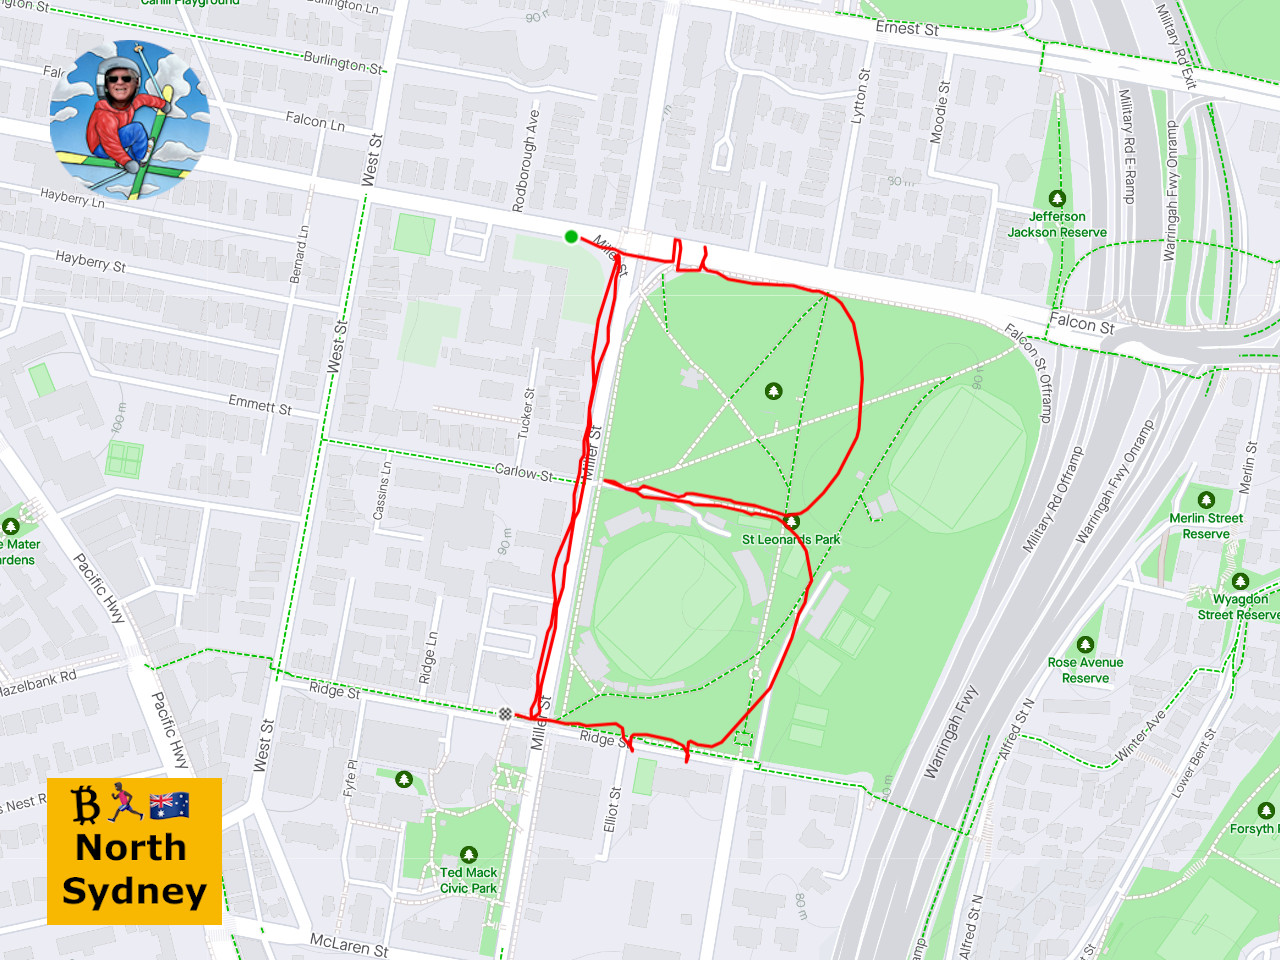
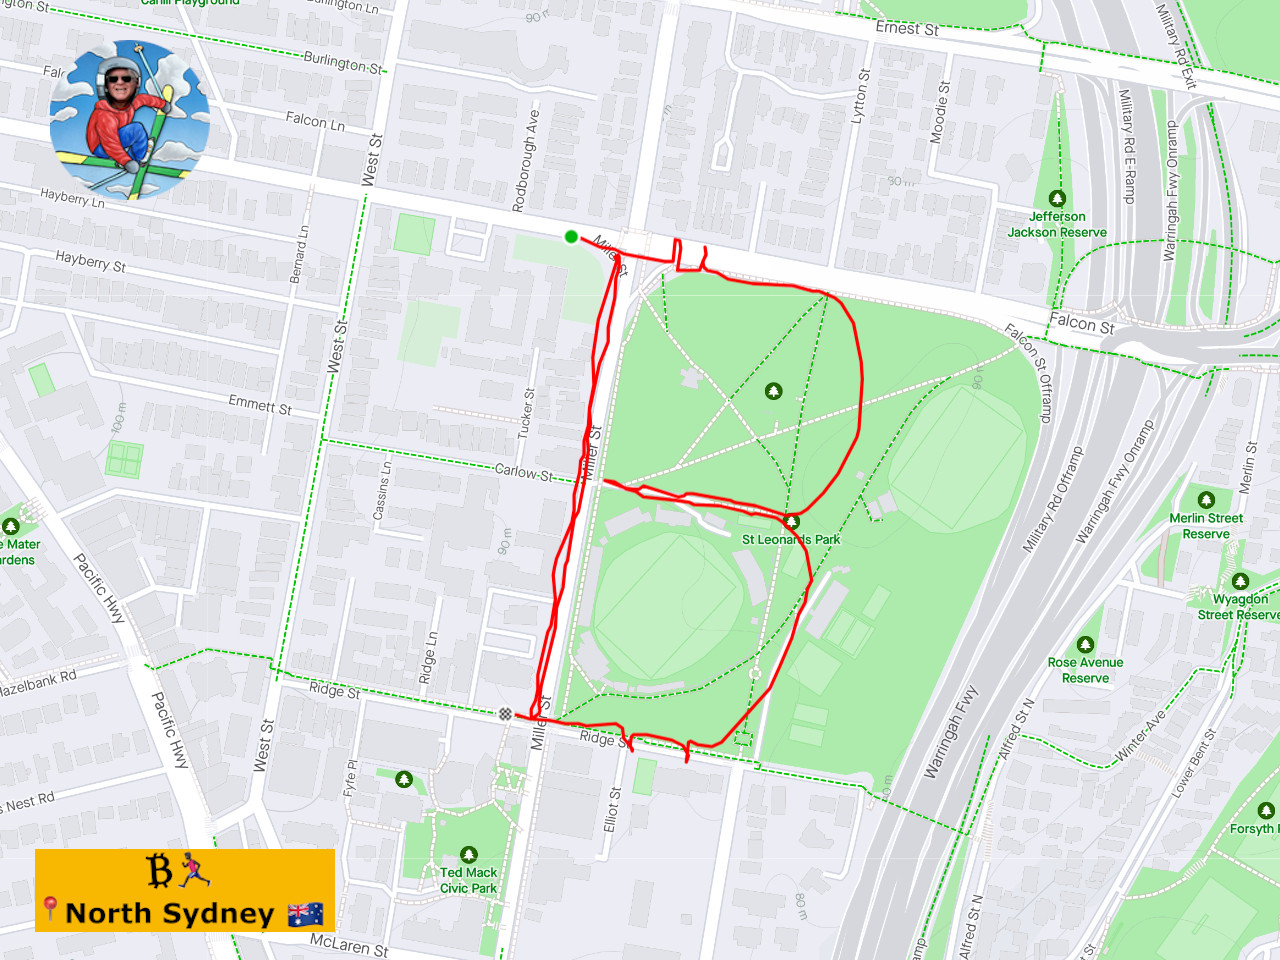
fix strava image in blog post

Changed region(s): [[0.0, 0.8125, 0.2812, 0.9688]]

diff --git a/_pages/runs/15-north-sydney.md b/_pages/runs/15-north-sydney.md
@@ -21,7 +21,7 @@ Check out his effort on Strava 👇:
 
 <figure class="image">
   <a href="https://www.strava.com/activities/8221225103" target="_blank">
-    <img src="/assets/images/runs/15-north-sydney/page/strava-screenshot-1280x960.png" alt="Sydeny Bitcoin Run Strava ₿ 🏃🏿♂ 🇦🇺">
+    <img src="/assets/images/runs/15-north-sydney/page/north-sydney-author-strava-1280x960.jpeg" alt="Sydeny Bitcoin Run Strava ₿ 🏃🏿♂ 🇦🇺">
   </a>
   <figcaption>Sydney Bitcoin Ride Strava ₿ 🏃🏿♂ 🇦🇺</figcaption>
 </figure>
